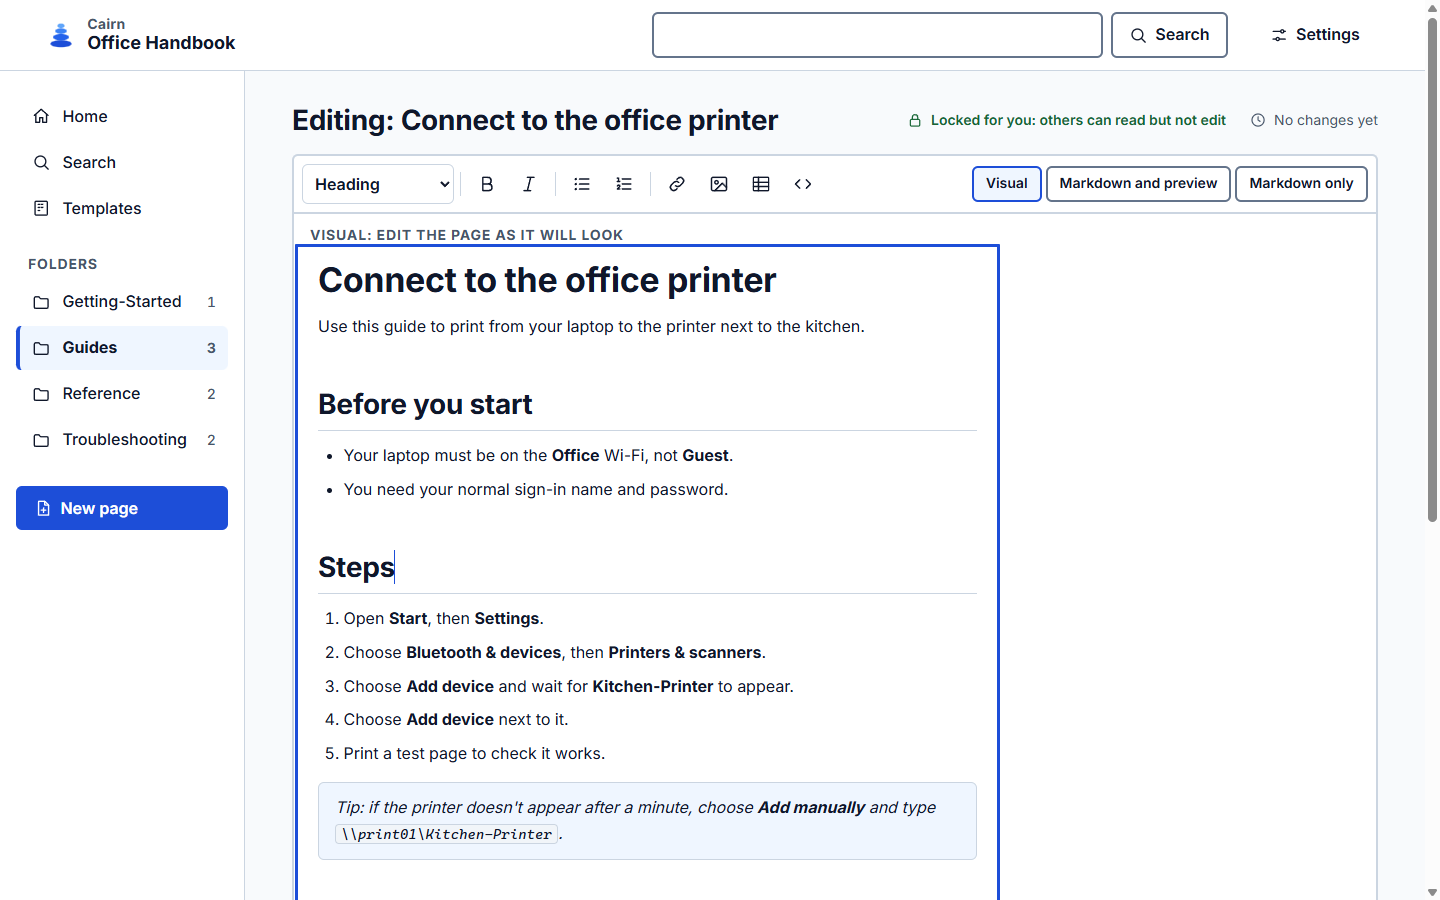
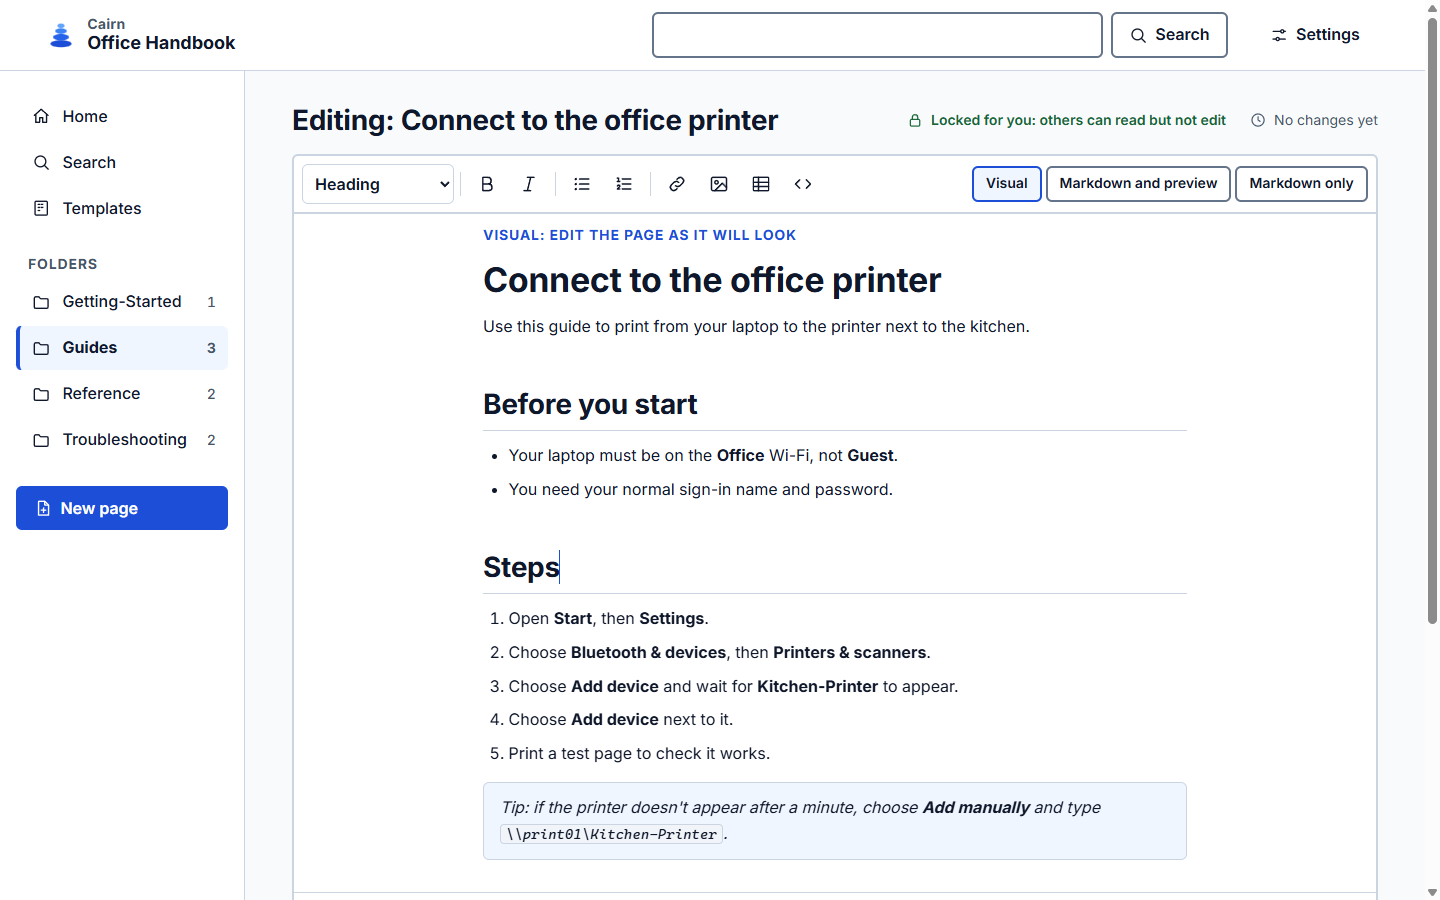
feat: loading indicator for slow shared folders; centre the visual editor
Screens that take more than a moment show what's happening, a skeleton of
the page, and after a few seconds a note that the shared folder is slow.
Each screen renders into its own container, so a screen that finishes
loading after the person moved on is discarded instead of mixing into the
new one, and a late editor releases its lock. The preview shows
'Preparing the preview...' until ready.

The visual editor's page is centred at the published reading width, with
its label aligned. README visual editing screenshot retaken.

diff --git a/assets/js/app.js b/assets/js/app.js
@@ -25,6 +25,7 @@ const app = {
   current: null,
   currentHash: null,
   shell: null,
+  routeSeq: 0,
 };
 
 const ROUTES = {
@@ -196,6 +197,50 @@ function makeContext(main, parsed) {
   };
 }
 
+// ------------------------------------------------------------- loading
+// A shared folder on a slow network can take a while. If a screen isn't
+// ready after a moment, show a skeleton with plain words about what's
+// happening; if it's slow, say so, so nobody thinks Cairn has frozen.
+
+const SHOW_LOADER_AFTER_MS = 250;
+const SLOW_AFTER_MS = 6000;
+const LOADING_TEXT = {
+  '': 'Opening the home page…',
+  page: 'Opening the page…',
+  edit: 'Opening the editor…',
+  folder: 'Opening the folder…',
+  search: 'Searching…',
+  history: 'Opening earlier versions…',
+  new: 'Getting ready…',
+  templates: 'Opening templates…',
+  settings: 'Opening settings…',
+  print: 'Preparing the page for printing…',
+};
+
+/** Shows the loader in `main` if loading takes a moment; returns `done()`. */
+function routeLoader(main, route) {
+  let loader = null;
+  const timers = [setTimeout(() => {
+    const slow = h('p', { class: 'loading-slow', hidden: true },
+      'The shared folder is responding slowly. Cairn is still working on it, so there’s no need to click again.');
+    loader = h('div', { class: 'route-loading', role: 'status' },
+      h('p', { class: 'loading-label' },
+        h('span', { class: 'spinner', 'aria-hidden': 'true' }), LOADING_TEXT[route] || 'Loading…'),
+      h('div', { class: 'skeleton', 'aria-hidden': 'true' },
+        h('span', { class: 'sk sk-title' }), h('span', { class: 'sk' }),
+        h('span', { class: 'sk' }), h('span', { class: 'sk sk-short' })),
+      slow);
+    main.setAttribute('aria-busy', 'true');
+    Element.prototype.prepend.call(main, loader);
+    timers.push(setTimeout(() => { slow.hidden = false; }, SLOW_AFTER_MS - SHOW_LOADER_AFTER_MS));
+  }, SHOW_LOADER_AFTER_MS)];
+  return () => {
+    timers.forEach(clearTimeout);
+    if (loader) loader.remove();
+    main.removeAttribute('aria-busy');
+  };
+}
+
 async function onRoute() {
   if (app.current?.canLeave) {
     const ok = await app.current.canLeave();
@@ -218,23 +263,36 @@ async function onRoute() {
   }
   app.currentHash = location.hash || '#/';
 
-  let main;
+  let host;
   if (parsed.route === 'setup') {
     app.shell = null;
     const root = clear(document.getElementById('app'));
     root.removeAttribute('aria-busy');
-    main = h('main', { id: 'main', class: 'setup', tabindex: '-1' });
-    root.append(main);
+    host = h('main', { id: 'main', class: 'setup', tabindex: '-1' });
+    root.append(host);
   } else {
     if (!app.shell) renderShell();
     renderNav();
     refreshNav(); // page counts may have changed
-    main = clear(app.shell.main);
+    host = clear(app.shell.main);
     if (parsed.route === 'search') app.shell.searchInput.value = parsed.query.get('q') || '';
   }
 
+  // Each screen draws into its own container. If the person moves on before
+  // it has finished loading (easy on a slow drive), its container is already
+  // detached, so late content can never mix into the new screen.
+  const seq = ++app.routeSeq;
+  const isCurrent = () => seq === app.routeSeq;
+  const main = h('div', { class: 'route-view' });
+  Element.prototype.append.call(host, main);
+  const loaded = routeLoader(main, parsed.route);
+
   // Views pass optional sections as null; skip them like h() does.
-  main.append = (...children) => appendChildren(main, children);
+  main.append = (...children) => {
+    if (!isCurrent()) return;
+    loaded();
+    appendChildren(main, children);
+  };
 
   const view = ROUTES[parsed.route];
   if (!view) {
@@ -246,17 +304,25 @@ async function onRoute() {
   }
   try {
     const result = await view(makeContext(main, parsed));
+    if (!isCurrent()) {
+      // Too late: let it tidy up (an editor gives its lock back).
+      if (result?.abandon) result.abandon();
+      else if (result?.cleanup) result.cleanup();
+      return;
+    }
+    loaded();
     app.current = result || null;
     document.title = [result?.title, app.state.workspace?.name, 'Cairn'].filter(Boolean).join(' – ');
     if (!parsed.query.get('section')) window.scrollTo(0, 0);
     if (!result?.keepFocus) {
       // Move focus to the new heading so screen readers announce the page.
-      const heading = main.querySelector('h1') || main;
-      if (heading !== main) heading.tabIndex = -1;
+      const heading = main.querySelector('h1') || host;
+      if (heading !== host) heading.tabIndex = -1;
       heading.focus({ preventScroll: true });
     }
     if (result?.title) announce(`${result.title} opened`);
   } catch (err) {
+    if (!isCurrent()) return;
     main.append(banner({
       tone: 'danger', title: 'This screen could not be shown', text: errorText(err),
       actions: [button('Try again', { icon: 'refresh', onClick: () => onRoute() })],

diff --git a/assets/css/app.css b/assets/css/app.css
@@ -150,8 +150,10 @@ main {
 /* On very wide screens keep actions near the text they belong to: the page
    is as wide as the reading column plus the page-details column. The editor
    may use more, so Write and Preview each get a comfortable width. */
-main > * { max-width: calc(var(--measure) + var(--space-7) + 17rem); }
-main:has(.editor-panes) > * { max-width: 100rem; }
+/* Each screen is drawn in its own .route-view (see app.js); it adds no box. */
+.route-view { display: contents; }
+main > :not(.route-view), .route-view > * { max-width: calc(var(--measure) + var(--space-7) + 17rem); }
+main:has(.editor-panes) .route-view > * { max-width: 100rem; }
 
 .page-head { display: flex; flex-wrap: wrap; align-items: flex-end; justify-content: space-between; gap: var(--space-4); margin-bottom: var(--space-6); }
 .page-head h1 { flex: 1 1 20rem; }
@@ -195,6 +197,25 @@ main:has(.editor-panes) > * { max-width: 100rem; }
 }
 @keyframes spin { to { transform: rotate(360deg); } }
 @media (prefers-reduced-motion: reduce) { .spinner { animation-duration: 2.4s; } }
+
+/* Shown while a screen is loading (only if it takes a moment): what's
+   happening in words, and grey bars where the page will appear. */
+.route-loading { display: flex; flex-direction: column; gap: var(--space-4); max-width: 46rem; }
+.loading-label { display: flex; align-items: center; gap: var(--space-3); margin: 0; font-weight: 600; color: var(--fg-muted); }
+.skeleton { display: flex; flex-direction: column; gap: var(--space-3); }
+.sk {
+  display: block;
+  height: 1rem;
+  width: 100%;
+  border-radius: var(--radius);
+  background: var(--border);
+  animation: sk-pulse 1.4s ease-in-out infinite;
+}
+.sk-title { height: 2.25rem; width: 60%; margin-bottom: var(--space-2); }
+.sk-short { width: 45%; }
+@keyframes sk-pulse { 50% { opacity: 0.45; } }
+@media (prefers-reduced-motion: reduce) { .sk { animation: none; } }
+.loading-slow { margin: 0; max-width: var(--measure); color: var(--fg); }
 
 /* --------------------------------------------------------------- forms */
 label, .label { display: block; font-weight: 600; margin-bottom: var(--space-2); }
@@ -450,8 +471,22 @@ html[data-toolbar="words"] .btn-icon::after { display: none; }
 .editor-panes[data-view="visual"] .pane-visual { display: flex; }
 .visual-root { flex: 1; display: flex; }
 .visual-root > * { flex: 1; min-width: 0; display: flex; } /* Milkdown's own wrapper */
-.visual-doc {
-  flex: 1;
+/* A comfortable reading width (the same as the published page), centred in
+   the pane like a page in a word processor, so the spare room is shared on
+   both sides instead of all piling up on the right. (Scoped to the pane so
+   it outranks .md-body's own max-width in markdown.css.) */
+.pane-visual { --visual-column: calc(44rem + 2 * var(--space-5)); } /* 44rem ≈ 70 characters of body text */
+.pane-visual > .pane-label {
+  width: 100%;
+  max-width: var(--visual-column);
+  margin-inline: auto;
+  padding-inline: var(--space-5);
+}
+.pane-visual .visual-doc {
+  flex: 0 1 auto;
+  width: 100%;
+  max-width: var(--visual-column);
+  margin-inline: auto;
   min-height: 60vh;
   padding: var(--space-4) var(--space-5);
   white-space: pre-wrap;

diff --git a/assets/js/editor.js b/assets/js/editor.js
@@ -284,7 +284,9 @@ function mountEditor(ctx, path, start) {
   const notices = h('div');
   const ta = h('textarea', { id: 'md-text', spellcheck: 'true', 'aria-describedby': 'drop-hint' });
   ta.value = start.content;
-  const previewBody = h('div', { class: 'md-body' });
+  // Until the first preview arrives (slow on a slow shared folder), say so.
+  const previewBody = h('div', { class: 'md-body' },
+    h('p', { class: 'loading-label' }, h('span', { class: 'spinner', 'aria-hidden': 'true' }), 'Preparing the preview…'));
   const writePane = h('div', { class: 'pane pane-write' },
     h('label', { class: 'pane-label', for: 'md-text' }, 'Write'),
     ta,
@@ -1091,6 +1093,8 @@ function mountEditor(ctx, path, start) {
     title: 'Editing',
     keepFocus: true,
     cleanup: finish,
+    // Opened too late (the person already went elsewhere): give the lock back.
+    abandon: closeEditor,
     canLeave: async () => {
       if (s.closed) return true;
       const choice = await openDialog({

diff --git a/assets/css/print.css b/assets/css/print.css
@@ -93,7 +93,7 @@
 /* In-app print view: the page as it will print, below the instructions. */
 .print-bar { margin-bottom: var(--space-6); }
 .print-bar .banner { margin: var(--space-4) 0; }
-main > .print-doc {
+.route-view > .print-doc {
   max-width: 50rem;
   padding: var(--space-6);
   border: var(--border-width) solid var(--border);
@@ -110,5 +110,5 @@ main > .print-doc {
   .no-print { display: none !important; }
   .shell { display: block !important; }
   #main { padding: 0 !important; margin: 0 !important; }
-  main > .print-doc { max-width: none; padding: 0; border: 0; }
+  .route-view > .print-doc { max-width: none; padding: 0; border: 0; }
 }

diff --git a/CHANGELOG.md b/CHANGELOG.md
@@ -2,6 +2,20 @@
 
 All notable changes that people using Cairn would notice are listed here.
 
+## Unreleased
+
+### Changed
+
+- In Visual editing, the page is centred in the editor like a page in a word processor, instead of sitting against the left edge with a large empty space on the right. Its width matches the published page.
+
+### Added
+
+- A loading indicator for slow shared folders. If a page, folder, or the editor takes more than a moment to open, Cairn shows what it's doing (for example “Opening the editor…”) with a placeholder of the page. After a few seconds it also explains that the shared folder is responding slowly and there's no need to click again. The editor's preview says “Preparing the preview…” until it's ready.
+
+### Fixed
+
+- On a slow shared folder, moving to another page before the first one finished loading could show the first page's content on the second. Late content is now discarded, and an editor that opens too late gives its edit lock back.
+
 ## 0.3.2 (2026-09-29)
 
 ### Fixed
